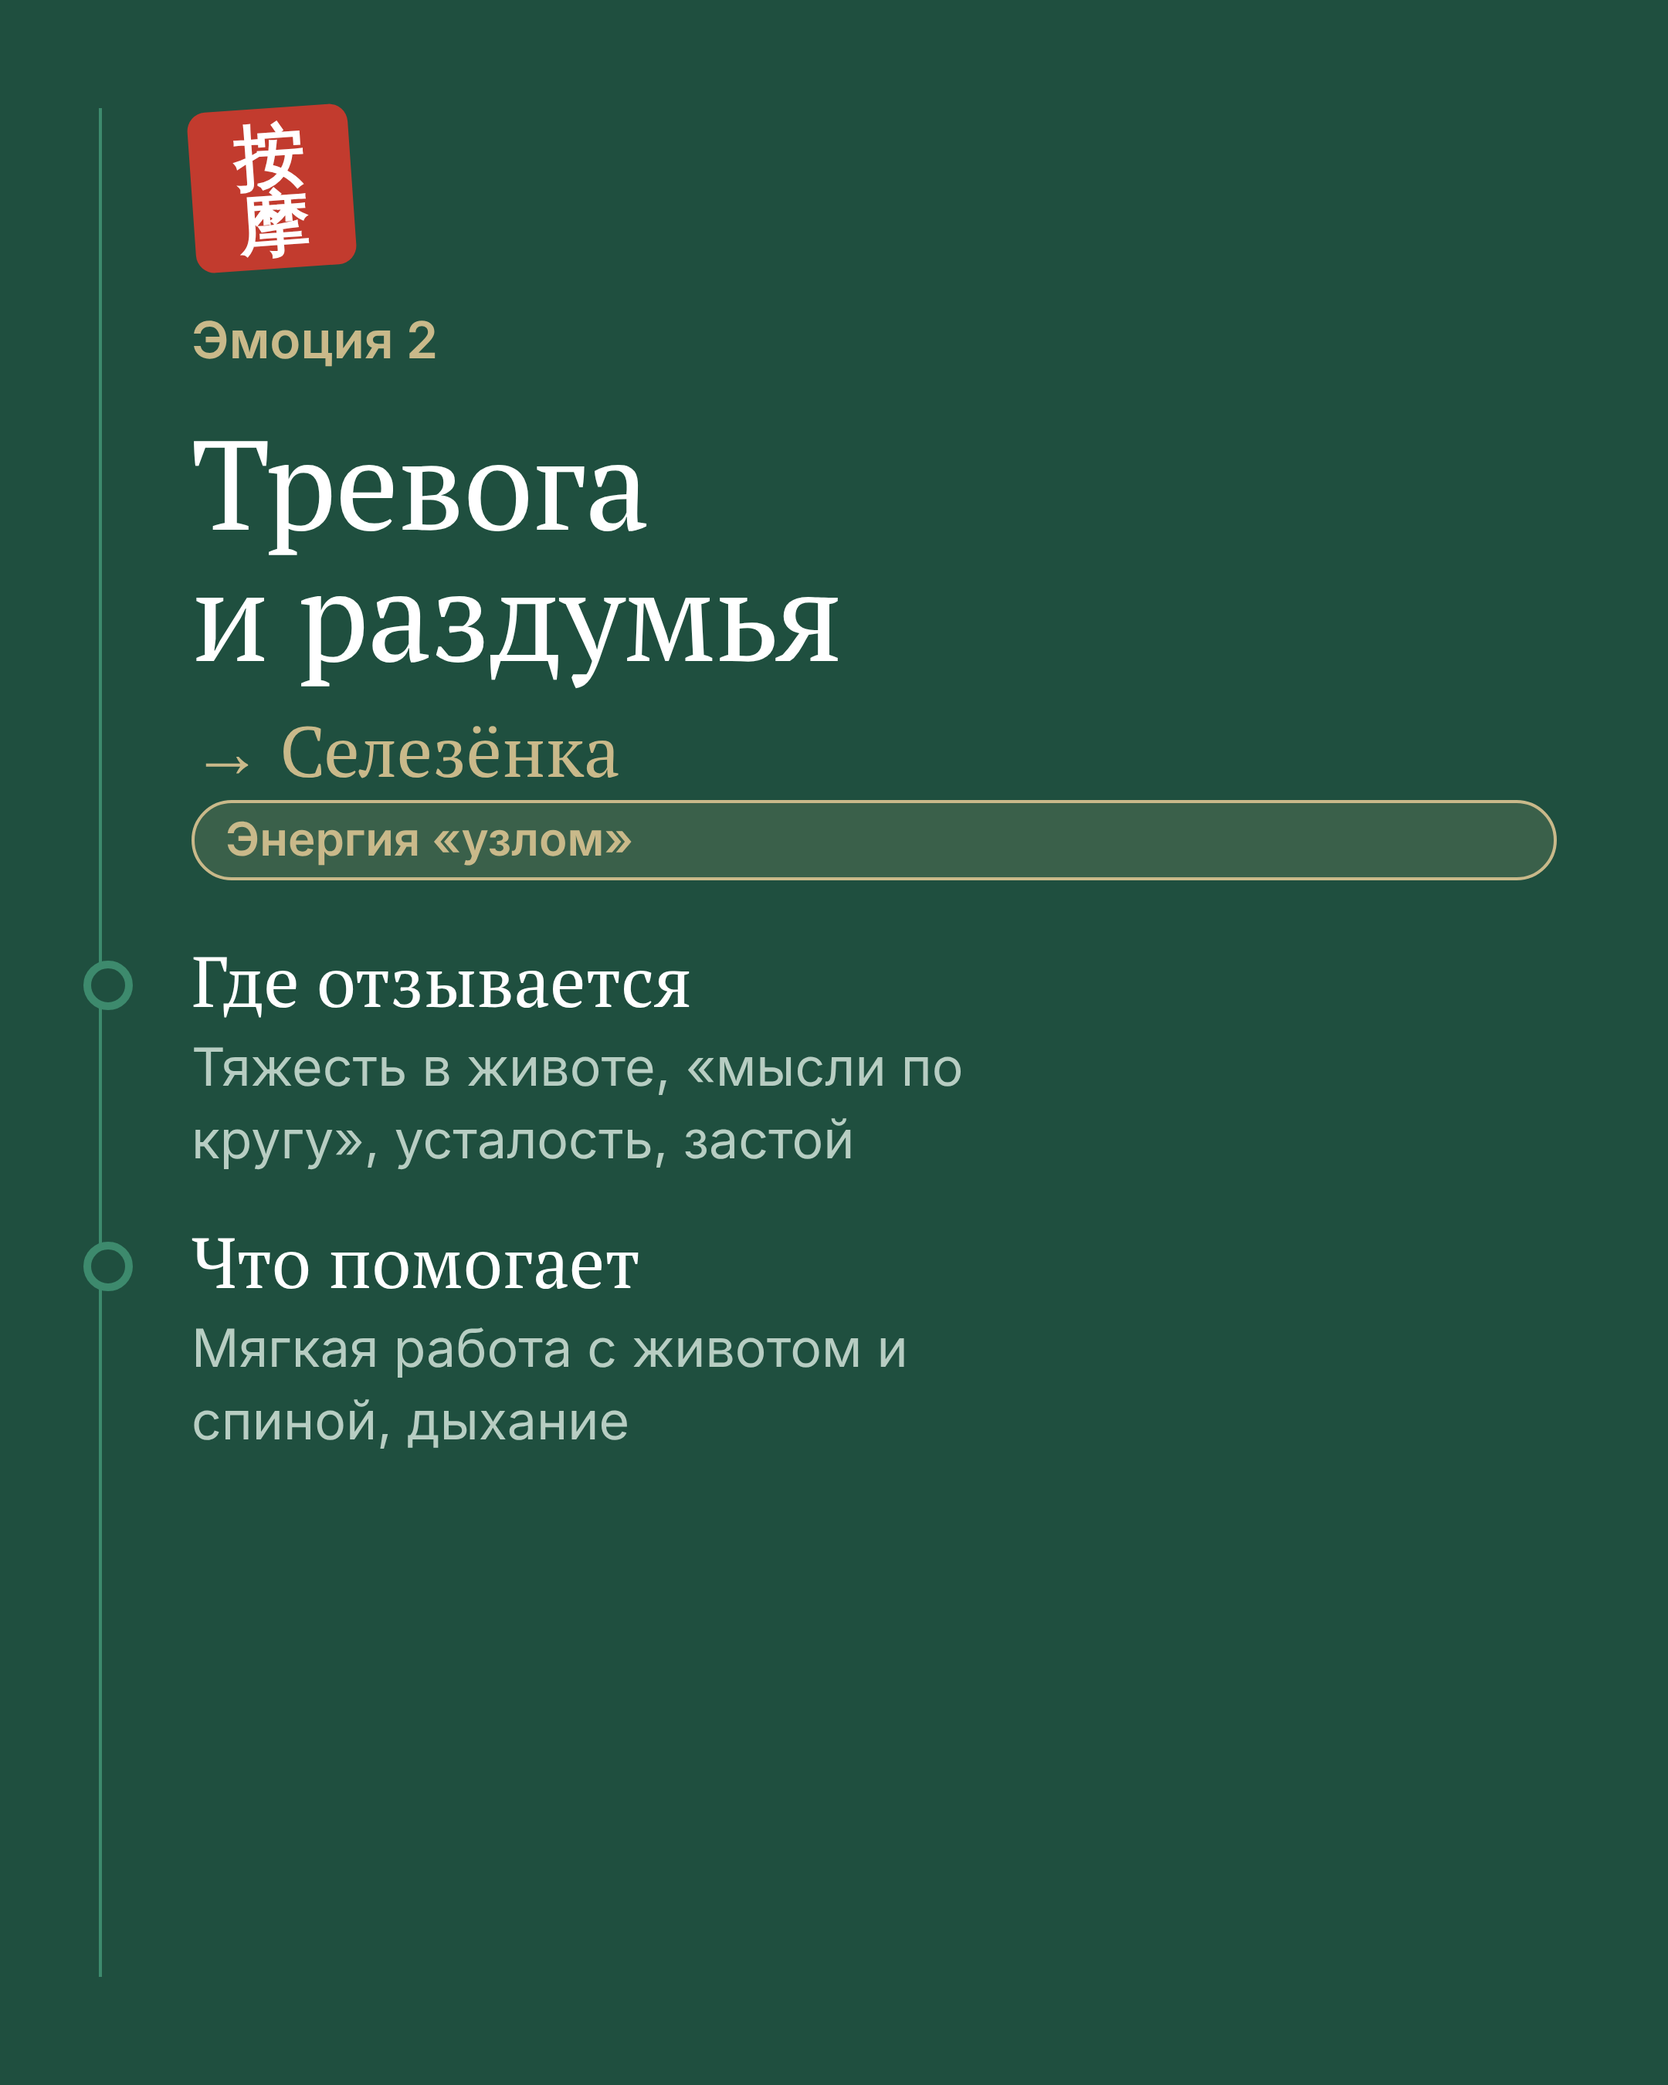
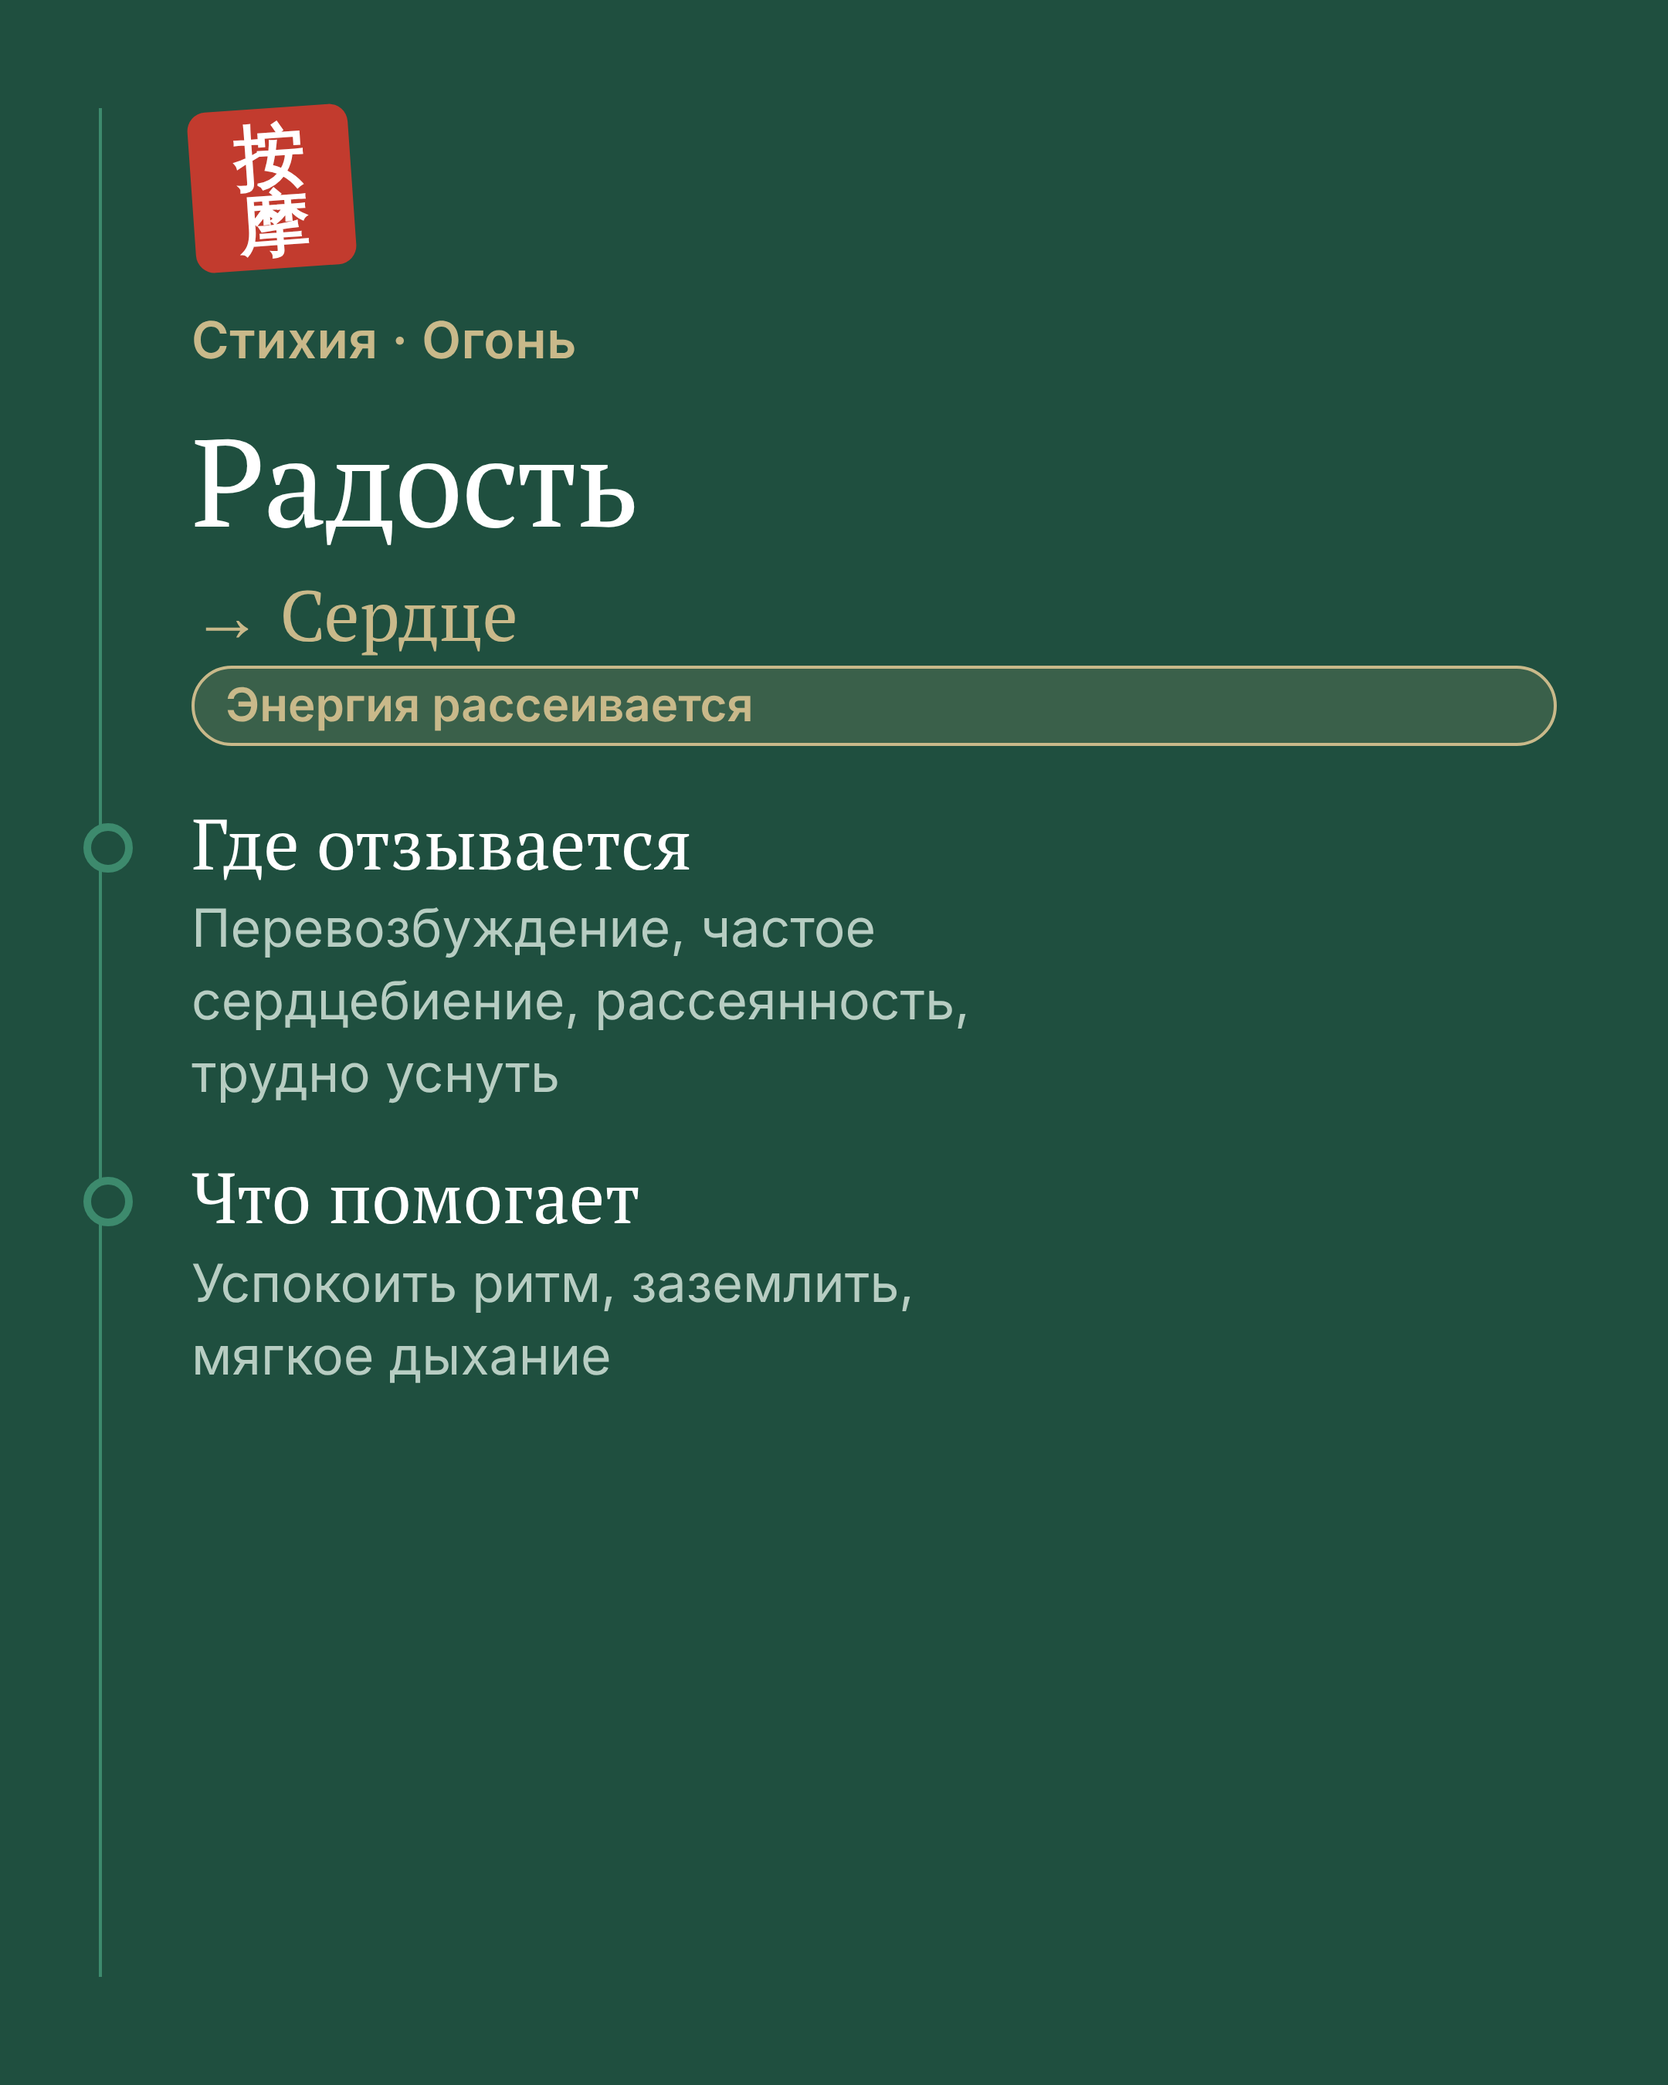
Пост 6 обновлён: фото-обложка + 5 стихий У-син (дерево/огонь/земля/металл/вода)
Добавлены фото-обложка мастера и стихия Огонь · Сердце · Радость;
у каждой эмоции подписана стихия У-син. 8 слайдов.

Claude-Session: https://claude.ai/code/session_019j6PjSd3vpmfH9hgSiT4hs

Changed region(s): [[0.031, 0.1556, 0.9306, 0.7156]]

diff --git a/post6.html b/post6.html
@@ -19,15 +19,14 @@ html,body{background:#0b1813}
   transform:rotate(-4deg)}
 h1{font-family:'PT Serif',serif;font-weight:700;line-height:1.04;letter-spacing:-.01em}
 h3{font-family:'PT Serif',serif;font-weight:700;line-height:1.1}
-.title{font-size:96px;margin-top:30px}
-.title.sm{font-size:82px}
-.sub{color:var(--gold);font-size:46px;line-height:1.25;margin-top:16px;font-weight:600;
-  font-family:'PT Serif',serif}
+.title{font-size:92px;margin-top:30px}
+.title.sm{font-size:80px}
+.sub{color:var(--gold);font-size:46px;line-height:1.25;margin-top:16px;font-weight:600;font-family:'PT Serif',serif}
 .subg{color:var(--gold);font-size:37px;line-height:1.3;margin-top:20px;font-weight:400;max-width:21ch}
 .lead{color:var(--lite);font-size:35px;line-height:1.4;margin-top:22px;max-width:24ch}
-.kick{color:var(--gold);font-size:33px;font-weight:600;margin-top:26px}
+.kick{color:var(--gold);font-size:33px;font-weight:600;margin-top:26px;letter-spacing:.01em}
 .spacer{flex:1}
-.items{display:flex;flex-direction:column;gap:30px;margin-top:40px}
+.items{display:flex;flex-direction:column;gap:30px;margin-top:38px}
 .row{position:relative}
 .row::before{content:"";position:absolute;left:-70px;top:12px;width:22px;height:22px;
   border-radius:50%;background:var(--bg);border:5px solid var(--rail)}
@@ -42,12 +41,21 @@ h3{font-family:'PT Serif',serif;font-weight:700;line-height:1.1}
 .note{color:var(--lite);font-size:30px;line-height:1.4;margin-top:24px;opacity:.9;max-width:30ch}
 .qi{display:inline-block;background:rgba(201,185,138,.16);border:2px solid var(--gold);
   color:var(--gold);font-weight:600;font-size:30px;border-radius:999px;padding:6px 20px;margin-top:4px}
+/* photo cover */
+.cover .img{position:absolute;inset:0;background:#2b2f30 url(photo.jpg) center top/cover}
+.cover .scrim{position:absolute;inset:0;background:
+  linear-gradient(180deg, rgba(31,79,63,.30) 0%, rgba(31,79,63,0) 18%, rgba(31,79,63,0) 38%, rgba(31,79,63,.82) 74%, var(--bg) 100%),
+  linear-gradient(90deg, rgba(31,79,63,.34) 0%, rgba(31,79,63,0) 48%)}
+.cover .cseal{position:absolute;top:60px;left:64px}
+.cover .ctxt{position:absolute;left:64px;right:72px;bottom:72px}
+.cover h1{font-size:92px;text-shadow:0 2px 28px rgba(0,0,0,.35)}
 </style></head><body><div class="sheet">
-<div class="slide"><div class="pad"><div class="seal">按<br>摩</div><h1 class="title">Куда<br>прячутся<br>эмоции</h1><p class="subg">Тело и чувства в китайской медицине</p><div class="spacer"></div><p class="lead">Злишься — каменеют плечи. Боишься — слабеют ноги. В китайской традиции это не случайно.</p></div></div>
-<div class="slide"><div class="pad"><div class="seal">按<br>摩</div><h1 class="title sm">Эмоции<br>двигают энергию</h1><div class="items"><div class="row"><h3>В меру — это норма</h3><p>В китайской традиции считается: каждое чувство двигает энергию (ци) по-своему</p></div><div class="row"><h3>Слишком сильно или надолго</h3><p>Энергия «застревает» — и напряжение остаётся в теле</p></div></div><div class="spacer"></div><p class="note">Листайте → четыре частых примера</p></div></div>
-<div class="slide"><div class="pad"><div class="seal">按<br>摩</div><div class="kick">Эмоция 1</div><h1 class="title sm">Гнев</h1><div class="sub">→ Печень</div><div class="qi">Энергия идёт вверх</div><div class="items"><div class="row"><h3>Где отзывается</h3><p>Плечи, шея, сжатая челюсть, давление в висках, раздражительность</p></div><div class="row"><h3>Что помогает</h3><p>Расслабить плечи, шею и грудной отдел</p></div></div></div></div>
-<div class="slide"><div class="pad"><div class="seal">按<br>摩</div><div class="kick">Эмоция 2</div><h1 class="title sm">Тревога<br>и раздумья</h1><div class="sub">→ Селезёнка</div><div class="qi">Энергия «узлом»</div><div class="items"><div class="row"><h3>Где отзывается</h3><p>Тяжесть в животе, «мысли по кругу», усталость, застой</p></div><div class="row"><h3>Что помогает</h3><p>Мягкая работа с животом и спиной, дыхание</p></div></div></div></div>
-<div class="slide"><div class="pad"><div class="seal">按<br>摩</div><div class="kick">Эмоция 3</div><h1 class="title sm">Страх</h1><div class="sub">→ Почки</div><div class="qi">Энергия идёт вниз</div><div class="items"><div class="row"><h3>Где отзывается</h3><p>«Ноги ватные», поясница, беспокойный сон</p></div><div class="row"><h3>Что помогает</h3><p>Тепло и работа с поясницей, ощущение опоры</p></div></div></div></div>
-<div class="slide"><div class="pad"><div class="seal">按<br>摩</div><div class="kick">Эмоция 4</div><h1 class="title sm">Скорбь<br>и печаль</h1><div class="sub">→ Лёгкие</div><div class="qi">Энергия тает</div><div class="items"><div class="row"><h3>Где отзывается</h3><p>Поверхностное дыхание, тяжесть в груди, нет сил</p></div><div class="row"><h3>Что помогает</h3><p>Раскрытие груди и спокойное, глубокое дыхание</p></div></div></div></div>
+<div class="slide cover"><div class="img"></div><div class="scrim"></div><div class="cseal"><div class="seal">按<br>摩</div></div><div class="ctxt"><p class="subg" style="margin:0 0 14px">Тело и чувства в китайской медицине</p><h1>Куда прячутся эмоции</h1></div></div>
+<div class="slide"><div class="pad"><div class="seal">按<br>摩</div><h1 class="title sm">Пять стихий<br>У-син</h1><div class="items"><div class="row"><h3>Дерево · огонь · земля · металл · вода</h3><p>У каждой стихии — свой орган и своя эмоция</p></div><div class="row"><h3>Эмоция двигает энергию</h3><p>В китайской традиции считается: в меру — норма, но сильное или долгое чувство «застревает» в теле</p></div></div><div class="spacer"></div><p class="note">Листайте → пять стихий по порядку</p></div></div>
+<div class="slide"><div class="pad"><div class="seal">按<br>摩</div><div class="kick">Стихия · Дерево</div><h1 class="title sm">Гнев</h1><div class="sub">→ Печень</div><div class="qi">Энергия идёт вверх</div><div class="items"><div class="row"><h3>Где отзывается</h3><p>Плечи, шея, сжатая челюсть, давление в висках, раздражительность</p></div><div class="row"><h3>Что помогает</h3><p>Расслабить плечи, шею и грудной отдел</p></div></div></div></div>
+<div class="slide"><div class="pad"><div class="seal">按<br>摩</div><div class="kick">Стихия · Огонь</div><h1 class="title sm">Радость</h1><div class="sub">→ Сердце</div><div class="qi">Энергия рассеивается</div><div class="items"><div class="row"><h3>Где отзывается</h3><p>Перевозбуждение, частое сердцебиение, рассеянность, трудно уснуть</p></div><div class="row"><h3>Что помогает</h3><p>Успокоить ритм, заземлить, мягкое дыхание</p></div></div></div></div>
+<div class="slide"><div class="pad"><div class="seal">按<br>摩</div><div class="kick">Стихия · Земля</div><h1 class="title sm">Тревога<br>и раздумья</h1><div class="sub">→ Селезёнка</div><div class="qi">Энергия «узлом»</div><div class="items"><div class="row"><h3>Где отзывается</h3><p>Тяжесть в животе, «мысли по кругу», усталость, застой</p></div><div class="row"><h3>Что помогает</h3><p>Мягкая работа с животом и спиной, дыхание</p></div></div></div></div>
+<div class="slide"><div class="pad"><div class="seal">按<br>摩</div><div class="kick">Стихия · Металл</div><h1 class="title sm">Скорбь<br>и печаль</h1><div class="sub">→ Лёгкие</div><div class="qi">Энергия тает</div><div class="items"><div class="row"><h3>Где отзывается</h3><p>Поверхностное дыхание, тяжесть в груди, нет сил</p></div><div class="row"><h3>Что помогает</h3><p>Раскрытие груди и спокойное, глубокое дыхание</p></div></div></div></div>
+<div class="slide"><div class="pad"><div class="seal">按<br>摩</div><div class="kick">Стихия · Вода</div><h1 class="title sm">Страх</h1><div class="sub">→ Почки</div><div class="qi">Энергия идёт вниз</div><div class="items"><div class="row"><h3>Где отзывается</h3><p>«Ноги ватные», поясница, беспокойный сон</p></div><div class="row"><h3>Что помогает</h3><p>Тепло и работа с поясницей, ощущение опоры</p></div></div></div></div>
 <div class="slide"><div class="pad"><div class="seal">按<br>摩</div><h1 class="title sm">Что с этим<br>делать</h1><div class="items"><div class="row card"><h3>Сеанс по меридианам</h3><p>Работаем с телом и зажимами, в которых «сидит» напряжение</p></div><div class="row"><div class="lbl">Запись</div><div class="big">@akmaltong</div></div></div><div class="spacer"></div><p class="note">Это работа с телом, не психотерапия. При тревоге и тяжёлых переживаниях — к психологу или врачу, можно совмещать.</p></div></div>
 </div></body></html>
